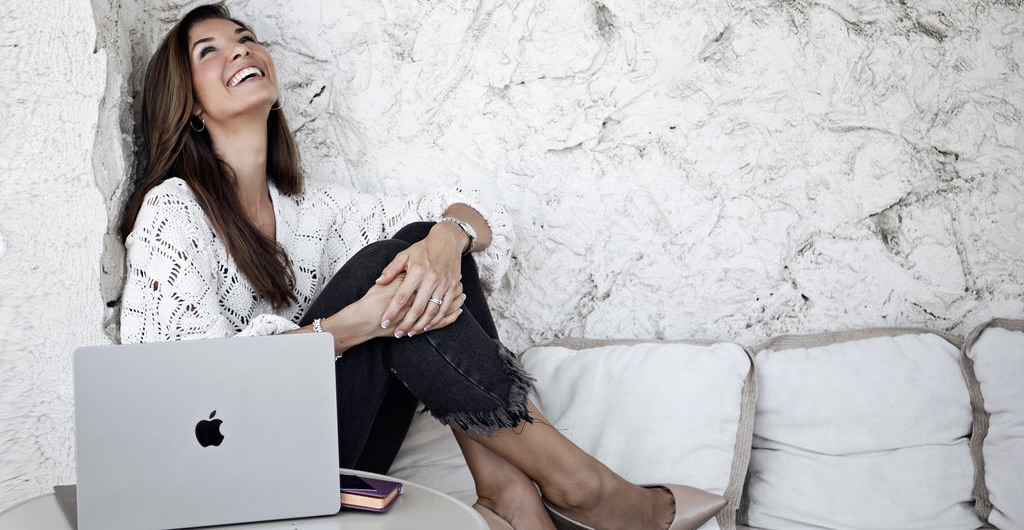
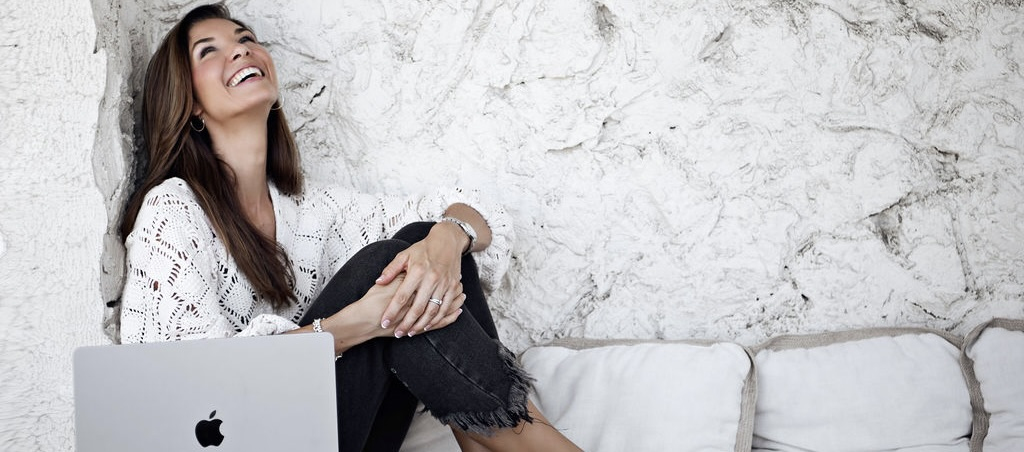
Edited the hero image, size and the frame

diff --git a/css/styles.css b/css/styles.css
@@ -142,14 +142,12 @@ body {
   width: 100%;
   max-width: var(--width-max); /* same as header container */
   margin: 0 auto; /* centre within the page */
-  aspect-ratio: 16/9;
   overflow: hidden;
 }
 
 /* keep these as you have */
 .hero__image {
   width: 100%;
-  height: 100%;
   object-fit: cover;
   display: block;
 }
@@ -483,7 +481,7 @@ h3 {
   margin: 0;
   font-size: 1rem;
   line-height: 1.7;
-  colour: var(--color-ink, #2a2340);
+  color: var(--color-ink, #2a2340);
 }
 .testimonial-card figcaption {
   margin-top: var(--spacing-lg, 16px);
